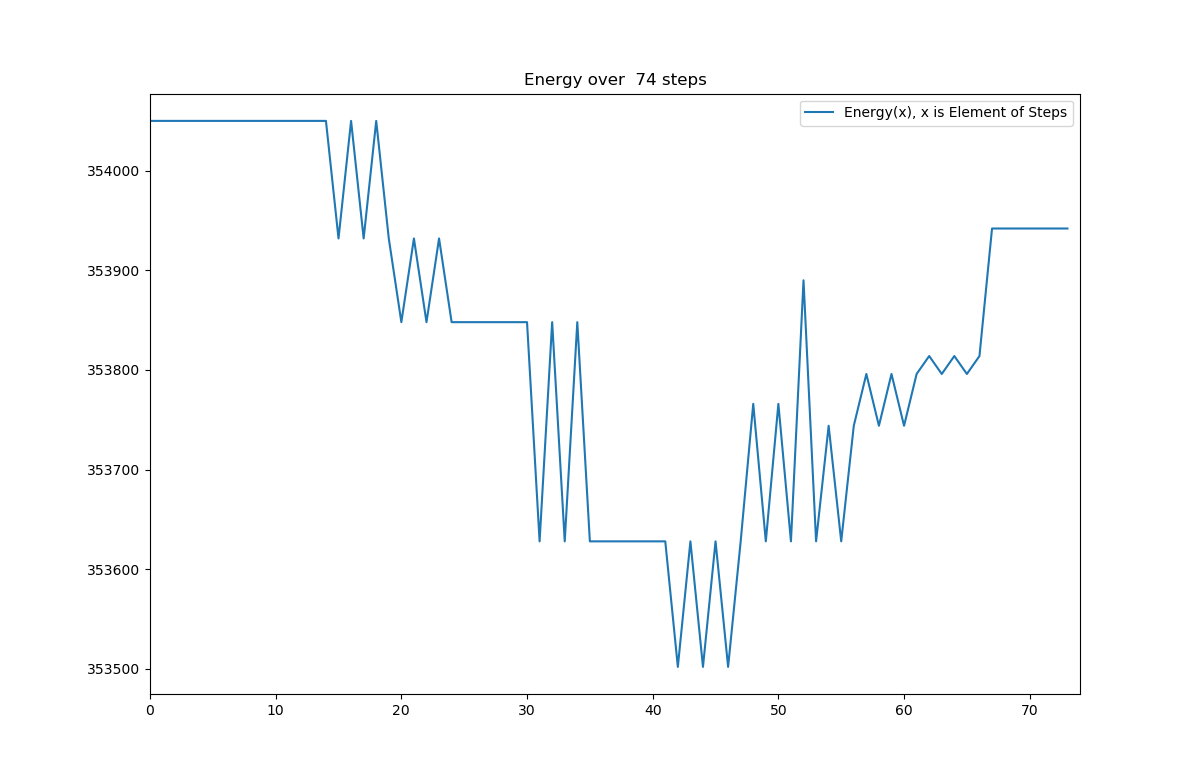
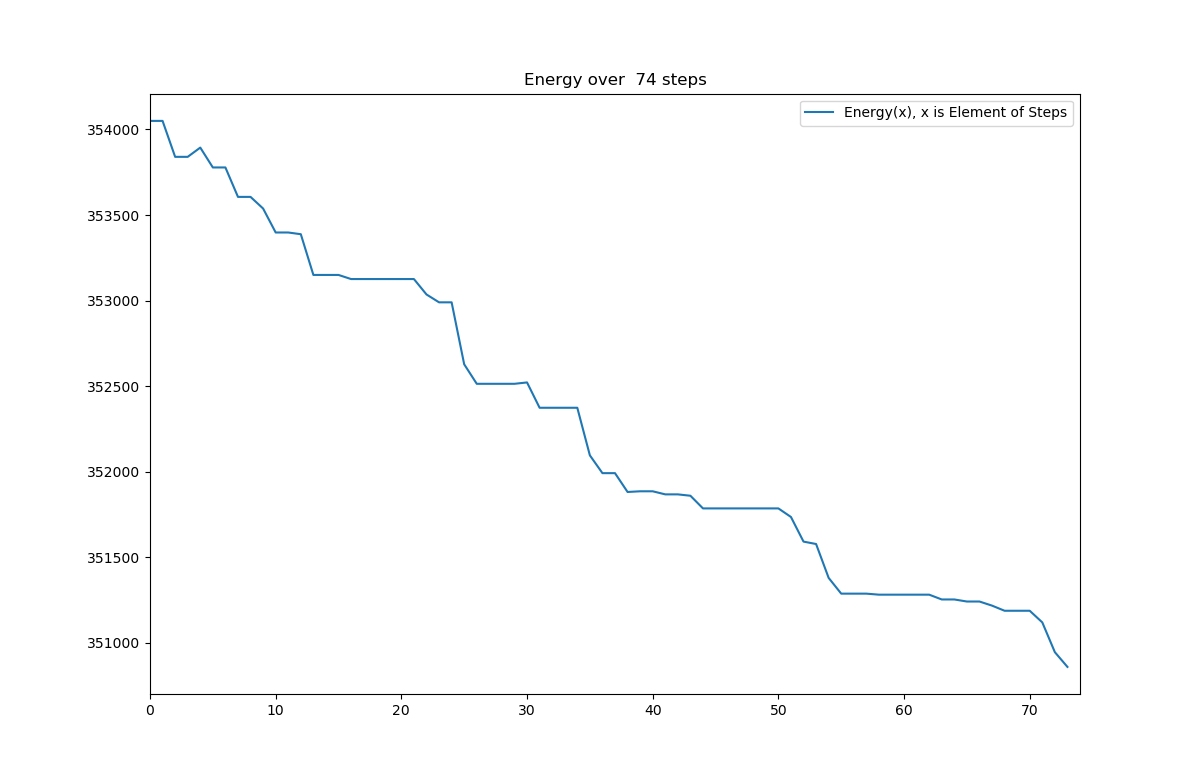
less cout

diff --git a/Retargeting/Retargeting/SimulatedAnnealing.cpp b/Retargeting/Retargeting/SimulatedAnnealing.cpp
@@ -224,8 +224,8 @@ bool SimulatedAnnealing::applyOneRandomPermutation(Image& permutation_data_step,
 	permutation_positions[index_swap_position_x][index_swap_position_y][0] = position_x;
 	permutation_positions[index_swap_position_x][index_swap_position_y][1] = position_y;
 
-	std::cout << "Dies sind die Permutationsschritte x = " << permutation_data_step[position_x][position_y][0] << " und y = " << permutation_data_step[position_x][position_y][1] << endl;
-	std::cout << "Position x = " << position_x << "y = " << position_y << endl;
+	//std::cout << "Dies sind die Permutationsschritte x = " << permutation_data_step[position_x][position_y][0] << " und y = " << permutation_data_step[position_x][position_y][1] << endl;
+	//std::cout << "Position x = " << position_x << "y = " << position_y << endl;
 	return true;
 }
 

diff --git a/Retargeting/Retargeting/SimulatedAnnealingTest.cpp b/Retargeting/Retargeting/SimulatedAnnealingTest.cpp
@@ -1,7 +1,7 @@
 #include "SimulatedAnnealingTest.h";
 
 
-SimulatedAnnealingTest::SimulatedAnnealingTest() : helper(), number_steps(1000), sa() {
+SimulatedAnnealingTest::SimulatedAnnealingTest() : helper(), number_steps(100), sa() {
 	
 	//this->schedule = new ExponentialCoolDown();
 	this->schedule = new Lineary(60, 59.f / number_steps);
